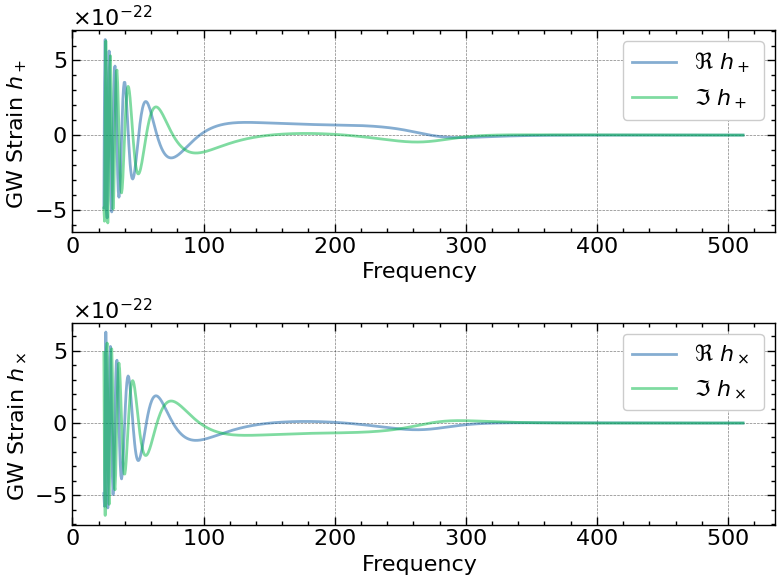
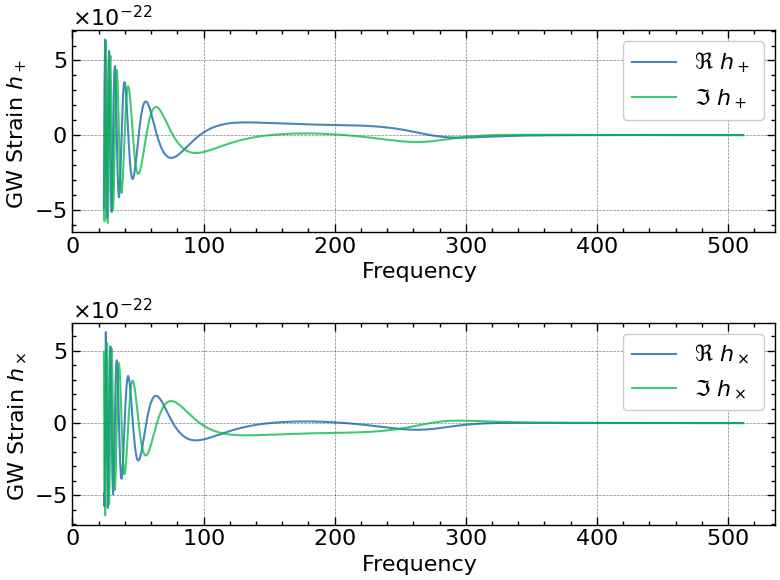
Plot fix - working

diff --git a/data/gw_plotter.py b/data/gw_plotter.py
@@ -54,12 +54,12 @@ def ripple_waveform_plot(
     f_sig: jnp.ndarray,
 ):
     # Plot init
-    fig, (ax1, ax2) = plt.subplots(2, 1)
+    fig, (ax1, ax2) = plt.subplots(2, 1, figsize=(8, 6))
     # Plotter
-    ax1.plot(f_sig, h_plus.real, label=f"{lbl_r}{lbl_p}", alpha=0.5)
-    ax1.plot(f_sig, h_plus.imag, label=f"{lbl_i}{lbl_p}", alpha=0.5)
-    ax2.plot(f_sig, h_cros.real, label=f"{lbl_r}{lbl_c}", alpha=0.5)
-    ax2.plot(f_sig, h_cros.imag, label=f"{lbl_i}{lbl_c}", alpha=0.5)
+    ax1.plot(f_sig, h_plus.real, label=f"{lbl_r}{lbl_p}", alpha=0.75, lw=1.5)
+    ax1.plot(f_sig, h_plus.imag, label=f"{lbl_i}{lbl_p}", alpha=0.75, lw=1.5)
+    ax2.plot(f_sig, h_cros.real, label=f"{lbl_r}{lbl_c}", alpha=0.75, lw=1.5)
+    ax2.plot(f_sig, h_cros.imag, label=f"{lbl_i}{lbl_c}", alpha=0.75, lw=1.5)
     # Plot customization
     ax1.set(xlabel=f"{lbl_f}", ylabel=f"{lbl_h}{lbl_p}")
     ax2.set(xlabel=f"{lbl_f}", ylabel=f"{lbl_h}{lbl_c}")
@@ -84,16 +84,16 @@ def ripple_grad_plot_idx(
     label1 = ripple_theta_label(idx1)
     label2 = ripple_theta_label(idx2)
     # Plot init
-    fig, (ax1, ax2) = plt.subplots(2, 1)
+    fig, (ax1, ax2) = plt.subplots(2, 1, figsize=(8, 6))
     # Plotter
     ax1.plot(f_sig, grad_hp[:, idx1],
-             alpha=0.5, label=f"{lbl_r}{lbl_p}")
+             alpha=0.75, label=f"{lbl_r}{lbl_p}", lw=1.5)
     ax1.plot(f_sig, grad_hc[:, idx1],
-             alpha=0.5, label=f"{lbl_i}{lbl_c}")
+             alpha=0.75, label=f"{lbl_i}{lbl_c}", lw=1.5)
     ax2.plot(f_sig, grad_hp[:, idx2],
-             alpha=0.5, label=f"{lbl_r}{lbl_p}")
+             alpha=0.75, label=f"{lbl_r}{lbl_p}", lw=1.5)
     ax2.plot(f_sig, grad_hc[:, idx2],
-             alpha=0.5, label=f"{lbl_i}{lbl_c}")
+             alpha=0.75, label=f"{lbl_i}{lbl_c}", lw=1.5)
     # Plot customization
     ax1.set(xlabel=f"{lbl_f}", ylabel=f"{lbl_d}/{lbl_d}{label1}")
     ax2.set(xlabel=f"{lbl_f}", ylabel=f"{lbl_d}/{lbl_d}{label2}")
@@ -108,10 +108,13 @@ def ripple_grad_plot_idx(
 
 
 def bilby_plot(f_sig: jnp.ndarray, data: jnp.ndarray):
+    # Get data min
+    data_min = data.min()
     # Plot init
-    fig, ax = plt.subplots()
+    fig, ax = plt.subplots(figsize=(8, 6))
     # Plotter
-    ax.plot(f_sig, data, label="H1 PSD", alpha=0.5)
+    ax.plot(f_sig, data, label="H1 PSD", alpha=0.75, lw=1.5)
+    ax.fill_between(f_sig, data, data_min, alpha=0.5)
     # Plot customization
     ax.set(xlabel=f"{lbl_f}", ylabel=f"{lbl_h}", xscale='log', yscale='log')
     ax.legend()
@@ -125,9 +128,9 @@ def bilby_plot(f_sig: jnp.ndarray, data: jnp.ndarray):
 
 def fim_plot(data: jnp.ndarray):
     # Plot init
-    fig, ax = plt.subplots()
+    fig, ax = plt.subplots(figsize=(8, 6))
     # Plotter
-    im = ax.imshow(data, cmap='plasma')
+    im = ax.imshow(data, cmap='RdBu', alpha=0.75)
     # Plot customization
     ax.figure.colorbar(im, ax=ax)
     ax.set(xlabel="Columns", ylabel="Rows")
@@ -145,16 +148,20 @@ def fim_param_plot(
     mr_repo: jnp.ndarray,
 ):
     # Grid - mc, mr
-    mc_grid, mr_grid = jnp.meshgrid(mc_repo, mr_repo, indexing='ij')
-    # Flatten - mc, mr
+    mc_grid, mr_grid = jnp.meshgrid(mc_repo, mr_repo)
+    # Format mc, mr data
     mc_data, mr_data = mc_grid.flatten(), mr_grid.flatten()
     # Plot init
-    fig, ((ax1, ax2), (ax3, ax4)) = plt.subplots(2, 2)
+    fig, ((ax1, ax2), (ax3, ax4)) = plt.subplots(2, 2, figsize=(16, 12))
     # Plotter
-    ax1.scatter(mc_data, fim_hp_repo, label="Mass - chirp", alpha=0.5, s=10)
-    ax2.scatter(mr_data, fim_hp_repo, label="Mass - ratio", alpha=0.5, s=10)
-    ax3.scatter(mc_data, fim_hc_repo, label="Mass - chirp", alpha=0.5, s=10)
-    ax4.scatter(mr_data, fim_hc_repo, label="Mass - ratio", alpha=0.5, s=10)
+    ax1.scatter(mc_data, fim_hp_repo, label="Mass - chirp", 
+                alpha=0.75, s=20, cmap='Blues')
+    ax2.scatter(mr_data, fim_hp_repo, label="Mass - ratio", 
+                alpha=0.75, s=20, cmap='Blues')
+    ax3.scatter(mc_data, fim_hc_repo, label="Mass - chirp", 
+                alpha=0.75, s=20, cmap='Blues')
+    ax4.scatter(mr_data, fim_hc_repo, label="Mass - ratio", 
+                alpha=0.75, s=20, cmap='Blues')
     # Plot custmoization
     ax1.set(xlabel="Mass - chirp", ylabel="FIM - Sqrt of Det",
             title="fim_hp-mc", xscale="log", yscale="log")
@@ -183,15 +190,17 @@ def fim_contour_plot(
     mr_repo: jnp.ndarray,
 ):
     # Grid - mc, mr
-    mc_grid, mr_grid = jnp.meshgrid(mc_repo, mr_repo, indexing='ij')
+    mc_grid, mr_grid = jnp.meshgrid(mc_repo, mr_repo)
     # Plot data process
     plotmat_hp = fim_hp_repo.reshape((mc_repo.shape[0], mr_repo.shape[0]))
     plotmat_hc = fim_hc_repo.reshape((mc_repo.shape[0], mr_repo.shape[0]))
     # Plot init
-    fig, (ax1, ax2) = plt.subplots(2, 1)
+    fig, (ax1, ax2) = plt.subplots(1, 2, figsize=(16, 6))
     # Plotter
-    cs1 = ax1.contourf(mc_grid, mr_grid, plotmat_hp, alpha=0.66, levels=100)
-    cs2 = ax2.contourf(mc_grid, mr_grid, plotmat_hc, alpha=0.66, levels=100)
+    cs1 = ax1.contourf(mc_grid, mr_grid, plotmat_hp, alpha=0.75, 
+                       levels=50, cmap='Blues', linewidths=1.5)
+    cs2 = ax2.contourf(mc_grid, mr_grid, plotmat_hc, alpha=0.75, 
+                       levels=50, cmap='Blues', linewidths=1.5)
     # Plot customization
     ax1.set(xlabel="Mass - chirp", ylabel="Mass - ratio",
             title="FIM-sqrtdet grad hp", xscale="log", yscale="log")

diff --git a/main.py b/main.py
@@ -19,31 +19,27 @@ mock_waveform_theta = jnp.array(
 mock_theta = jnp.tile(mock_waveform_theta, (theta_repo.shape[0], 1))
 
 # %%
-# Section 1.b -  Mock GW data generate - waveform, grad, plots
-# t ~ 4min06.9s - first compile
+# Section 1.b -  Mock GW data generate - waveform, grad
+# t ~ 3min58.8s - first compile
 mock_hp, mock_hc = gw_ripple.waveform(mock_waveform_theta)
 mock_hp_grad, mock_hc_grad = gw_ripple.grad_plus(
     mock_theta)[0], gw_ripple.grad_cros(mock_theta)[0]
 mock_idx = jnp.array([0, 1])
-gw_plotter.ripple_waveform_plot(mock_hp, mock_hc, f_sig)
-gw_plotter.ripple_grad_plot_idx(mock_hp_grad, mock_hc_grad, f_sig, *mock_idx)
 
 # %%
-# Section 1.c - Mock GW data generate - FIM, sqrt.det.fim, plots
+# Section 1.c - Mock GW data generate - FIM, sqrt.det.fim
 data_idx = jnp.arange(len(mock_waveform_theta))
 mock_fim = gw_fisher.build_fim(mock_hp_grad, mock_idx)
 mock_fim_sqrtdet = gw_fisher.sqrtdet_fim(mock_hp_grad, mock_idx)
-gw_plotter.fim_plot(mock_fim)
-gw_plotter.bilby_plot(f_sig, f_psd)
 
 # %%
-# Section 2.a - GW data generation - mc, mr - grad, sqrt.det.fim, plots
-# t ~ 0.8s
+# Section 2.a - GW data generation - mc, mr - grad
+# t ~ 0.4s
 data_hp_grad_repo, data_hc_grad_repo = gw_ripple.grad_plus(
     theta_repo), gw_ripple.grad_cros(theta_repo)
 
 # %%
-# Section 2.b
+# Section 2.b - GW data generation - mc, mr - sqrt.det.fim
 data_fim_hp_repo = jnp.array([
     [gw_fisher.sqrtdet_fim(data_hp_grad_repo[i, :, :], mock_idx)]
     for i in range(data_hp_grad_repo.shape[0])
@@ -52,6 +48,16 @@ data_fim_hc_repo = jnp.array([
     [gw_fisher.sqrtdet_fim(data_hc_grad_repo[i, :, :], mock_idx)]
     for i in range(data_hc_grad_repo.shape[0])
 ])
+
+# %%
+# Section 3 - Plot generation
+# Mock waveform and grad
+gw_plotter.ripple_waveform_plot(mock_hp, mock_hc, f_sig)
+gw_plotter.ripple_grad_plot_idx(mock_hp_grad, mock_hc_grad, f_sig, *mock_idx)
+# Mock waveform fim and indexed psd
+gw_plotter.fim_plot(mock_fim)
+gw_plotter.bilby_plot(f_sig, f_psd)
+# Generated fim and contour
 gw_plotter.fim_param_plot(data_fim_hp_repo, data_fim_hc_repo, mc_repo, mr_repo)
 gw_plotter.fim_contour_plot(
     data_fim_hp_repo, data_fim_hc_repo, mc_repo, mr_repo)

diff --git a/test.py b/test.py
@@ -1,0 +1,7 @@
+# %%
+import jax.numpy as jnp
+
+x = jnp.arange(1, 5, 2)
+y = jnp.arange(1, 10, 3)
+
+X, Y = jnp.meshgrid(x, y, indexing='ij')
